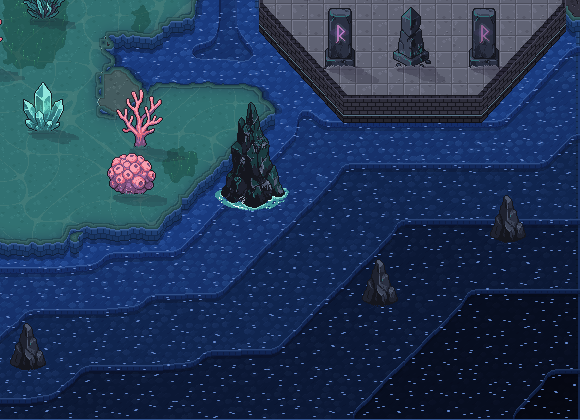
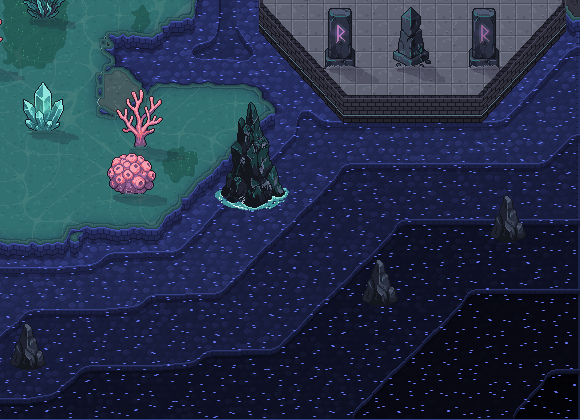
Karte 11: Tiefsee dunkler (Nachtblau), Struktur und Stufen bleiben
Claude-Session: https://claude.ai/code/session_01SaoYHKhnro4LFcPJqjaPsq

diff --git a/tools/karte11_bauen.py b/tools/karte11_bauen.py
@@ -302,7 +302,10 @@ def bauen(frame=None, speichern=True):
     a = np.array(_wv.vertiefen(Image.fromarray(a), np.ones_like(tief), frame, maske=tief,
                                rand=('#1c3a40', '#24484e', '#2e565c', '#386468'),
                                stufen=[(22, 0.84, 7), (64, 0.72, 6), (120, 0.62, 6), (190, 0.53, 5), (270, 0.45, 5)]).convert('RGB'))
-    a[tief] = np.clip(a[tief].astype(np.float32) * np.array([0.5, 0.56, 0.72]) + np.array([4, 4, 10]), 0, 255).astype(np.uint8)
+    # dunkel wie das uebrige Wasser der Karte (Nachtblau der Vorlage): Helligkeit bleibt als Struktur, Farbe nachtblau
+    lum_t = a[tief].astype(np.float32) @ np.array([0.3, 0.59, 0.11], np.float32)
+    lum_t = lum_t / max(1.0, float(lum_t.mean()))
+    a[tief] = np.clip(lum_t[:, None] * np.array([30, 36, 76], np.float32), 0, 255).astype(np.uint8)
     tm = weich(zell_maske(cls, 'x', cols, rows), 5, 0.2, 47, 0.45) & ~em[2]
     tm = k4.splitter_weg(tm, 60)
     k4.wasser_zeichnen(a, tm, frame, np.zeros_like(tm))
